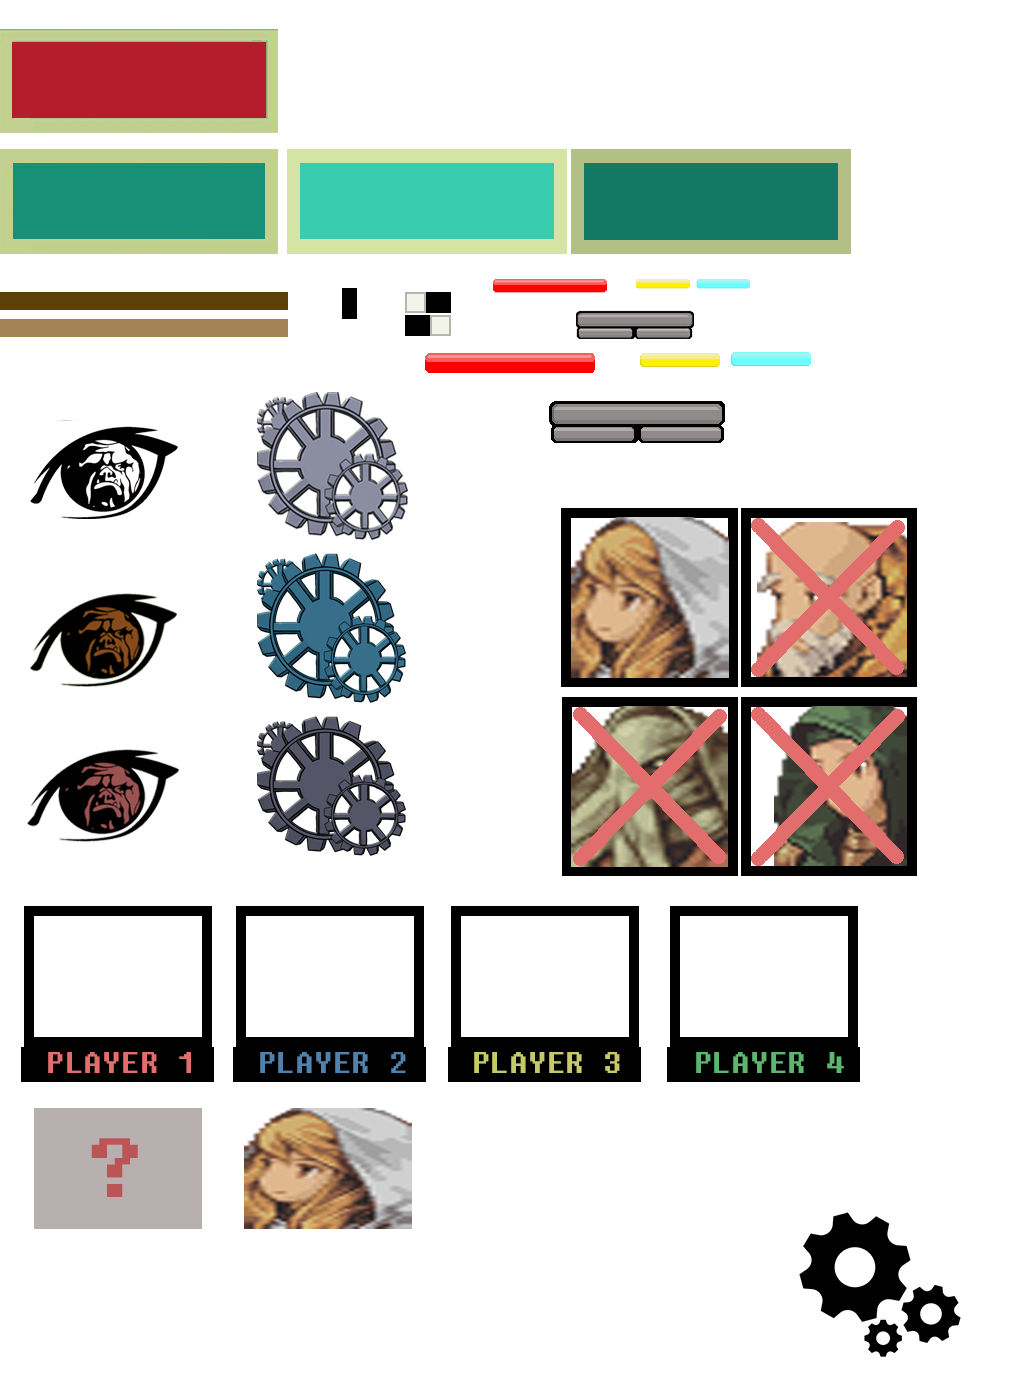
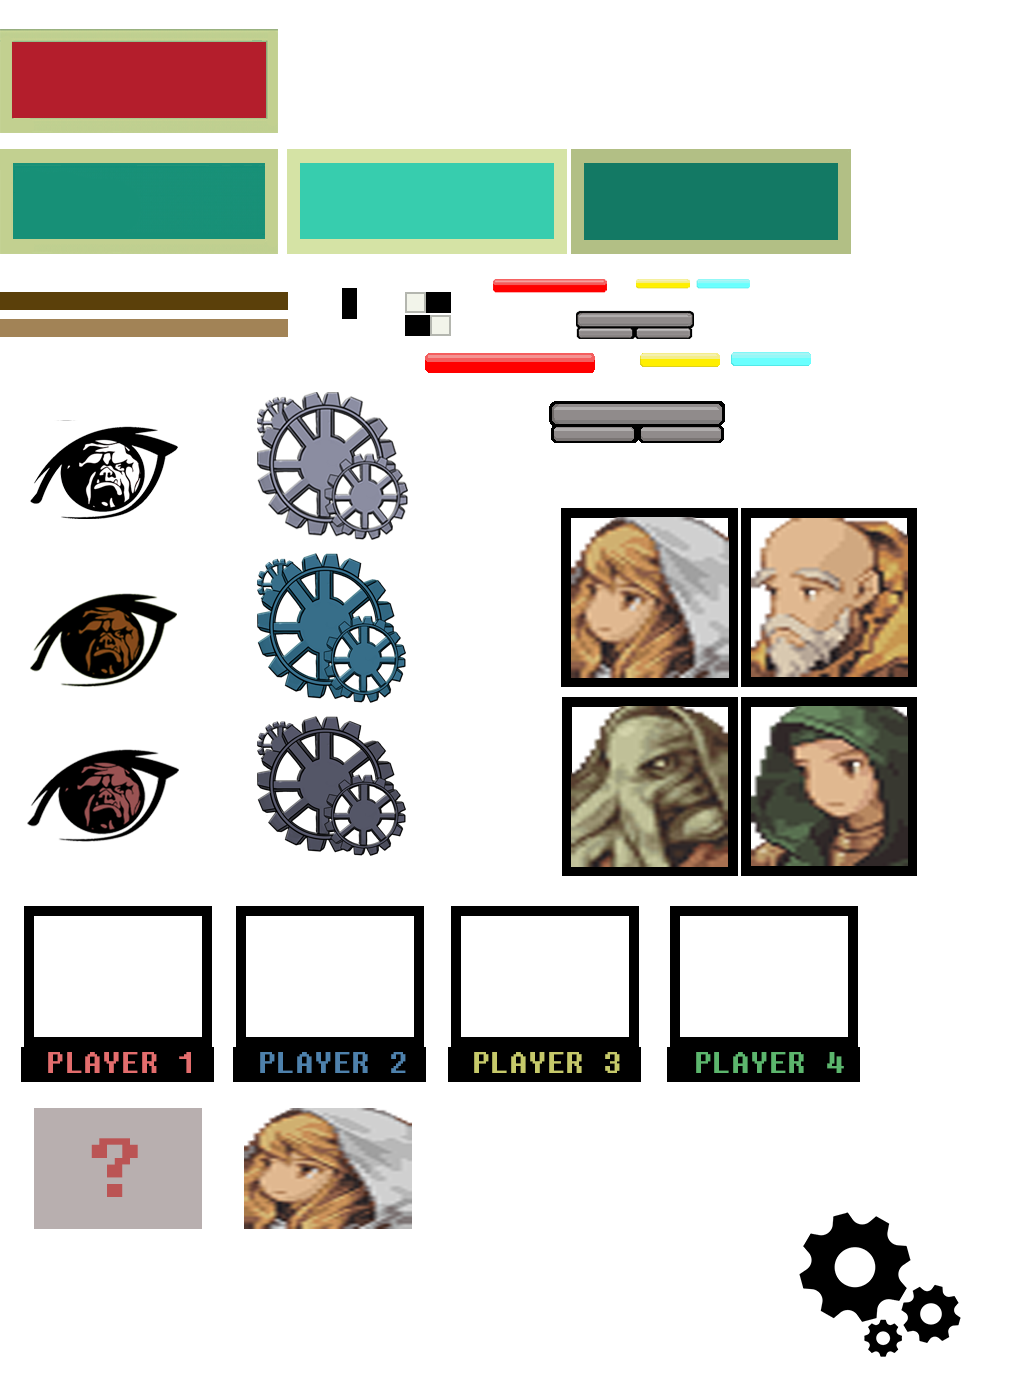
First changes to champ selection(working on arrows to change character image)

Changed region(s): [[0.5625, 0.3686, 0.9062, 0.645]]

diff --git a/FantasyBrawl_Project/Motor2D/j1UIScene.cpp b/FantasyBrawl_Project/Motor2D/j1UIScene.cpp
@@ -242,28 +242,31 @@ bool j1UIScene::Start()
 
 	menu* championSelection = new menu(SELECTION_MENU);
 	{
-		UI_element* selection_image = App->gui->createImage(0, 0, App->tex->Load("gui/vs.png"), this);
-		UI_element* selection_text = App->gui->createText("CHAMPION SELECTION", 275, 60, big_buttons_font, brown_color);
+		UI_element* selection_image = App->gui->createImage(0, 0, App->tex->Load("gui/ChampSelect.png"), this);
+		UI_element* selection_text = App->gui->createText("CHAMPION SELECTION", 450, 60, big_buttons_font, brown_color);
 		selection_text->setOutlined(true);
 
-		UI_element* champion_button1 = App->gui->createButton(300 * App->gui->UI_scale, 175 * App->gui->UI_scale, NULL, { 560,507,180,180 }, { 560,507,180,180 }, { 560,507,180,180 }, this);
+		/*UI_element* champion_button1 = App->gui->createButton(300 * App->gui->UI_scale, 175 * App->gui->UI_scale, NULL, { 560,507,180,180 }, { 560,507,180,180 }, { 560,507,180,180 }, this);
 		champion_button1->function = SELECTING;
 
 		UI_element* champion_button2 = App->gui->createButton(500 * App->gui->UI_scale, 175* App->gui->UI_scale, NULL, { 740,507,180,180 }, { 740,507,180,180 }, { 740,507,180,180 }, this);
 		UI_element* champion_button3 = App->gui->createButton(300 * App->gui->UI_scale, 375 * App->gui->UI_scale, NULL, { 560,696,180,180 }, { 560,696,180,180 }, { 560,696,180,180 }, this);
-		UI_element* champion_button4 = App->gui->createButton(500 * App->gui->UI_scale, 375 * App->gui->UI_scale, NULL, { 740,696,180,180 }, { 740,696,180,180 }, { 740,696,180,180 }, this);
+		UI_element* champion_button4 = App->gui->createButton(500 * App->gui->UI_scale, 375 * App->gui->UI_scale, NULL, { 740,696,180,180 }, { 740,696,180,180 }, { 740,696,180,180 }, this);*/
 
 		//PLAYER QUADS
-		UI_element* player1_quad = App->gui->createImageFromAtlas(20, 580, { 18, 904,200,180 }, this);
-		UI_element* player2_quad = App->gui->createImageFromAtlas(280, 580, { 232, 904,200,180 }, this);
-		UI_element* player3_quad = App->gui->createImageFromAtlas(540, 580, { 447, 904,200,180 }, this);
-		UI_element* player4_quad = App->gui->createImageFromAtlas(800, 580, { 666, 904,200,180 }, this);
+		UI_element* player1_quad = App->gui->createImageFromAtlas(20, 20, { 18, 904,200,180 }, this);
+		UI_element* player2_quad = App->gui->createImageFromAtlas(20, 200, { 232, 904,200,180 }, this);
+		UI_element* player3_quad = App->gui->createImageFromAtlas(20, 380, { 447, 904,200,180 }, this);
+		UI_element* player4_quad = App->gui->createImageFromAtlas(20, 560, { 666, 904,200,180 }, this);
+
+		//ARROWS
+		UI_element* arrow = App->gui->createButton(230 * App->gui->UI_scale, 100 * App->gui->UI_scale, NULL, { 341,287,16,32 }, { 341,287,16,32 }, { 341,287,16,32 }, this);
 
 		//PLAYER IMAGE(?)
-		mark1 = App->gui->createImageFromAtlas(35, 591, { 33, 1107, 169,122 }, this);
+		/*mark1 = App->gui->createImageFromAtlas(35, 591, { 33, 1107, 169,122 }, this);
 		mark2 = App->gui->createImageFromAtlas(293, 591, { 33, 1107, 169,122 }, this);
 		mark3 = App->gui->createImageFromAtlas(552, 591, { 33, 1107, 169,122 }, this);
-		mark4 = App->gui->createImageFromAtlas(812, 591, { 33, 1107, 169,122 }, this);
+		mark4 = App->gui->createImageFromAtlas(812, 591, { 33, 1107, 169,122 }, this);*/
 
 		//READY BUTTON
 		ready = App->gui->createButton(700 * App->gui->UI_scale, 330 * App->gui->UI_scale, NULL, { 0,28,278,105 }, { 0,28,278,105 }, { 0,28,278,105 }, this);//{ 281,148,281,111 }, { 562,148,281,111 }
@@ -271,20 +274,21 @@ bool j1UIScene::Start()
 
 		championSelection->elements.push_back(selection_image);
 		championSelection->elements.push_back(selection_text);
-		championSelection->elements.push_back(champion_button1);
+		/*championSelection->elements.push_back(champion_button1);
 		championSelection->elements.push_back(champion_button2);
 		championSelection->elements.push_back(champion_button3);
-		championSelection->elements.push_back(champion_button4);
+		championSelection->elements.push_back(champion_button4);*/
 		championSelection->elements.push_back(player1_quad);
 		championSelection->elements.push_back(player2_quad);
 		championSelection->elements.push_back(player3_quad);
 		championSelection->elements.push_back(player4_quad);
-		championSelection->elements.push_back(mark1);
+		/*championSelection->elements.push_back(mark1);
 		championSelection->elements.push_back(mark2);
 		championSelection->elements.push_back(mark3);
-		championSelection->elements.push_back(mark4);
+		championSelection->elements.push_back(mark4);*/
 		championSelection->elements.push_back(ready);
 		championSelection->elements.push_back(ready_text);
+		championSelection->elements.push_back(arrow);
 		menus.push_back(championSelection);
 	}
 
@@ -526,7 +530,7 @@ bool j1UIScene::Update(float dt)
 
 
 	
-	if (player1_select == true)
+	/*if (player1_select == true)
 	{
 		mark1->section = { 243, 1107, 169,122 };
 	}
@@ -572,7 +576,7 @@ bool j1UIScene::Update(float dt)
 	{
 		ready->section = { 0,28,278,105 };
 		ready->function = NONE;
-	}
+	}*/
 
 
 	//GET TO SCOREBOARD SCREEN
